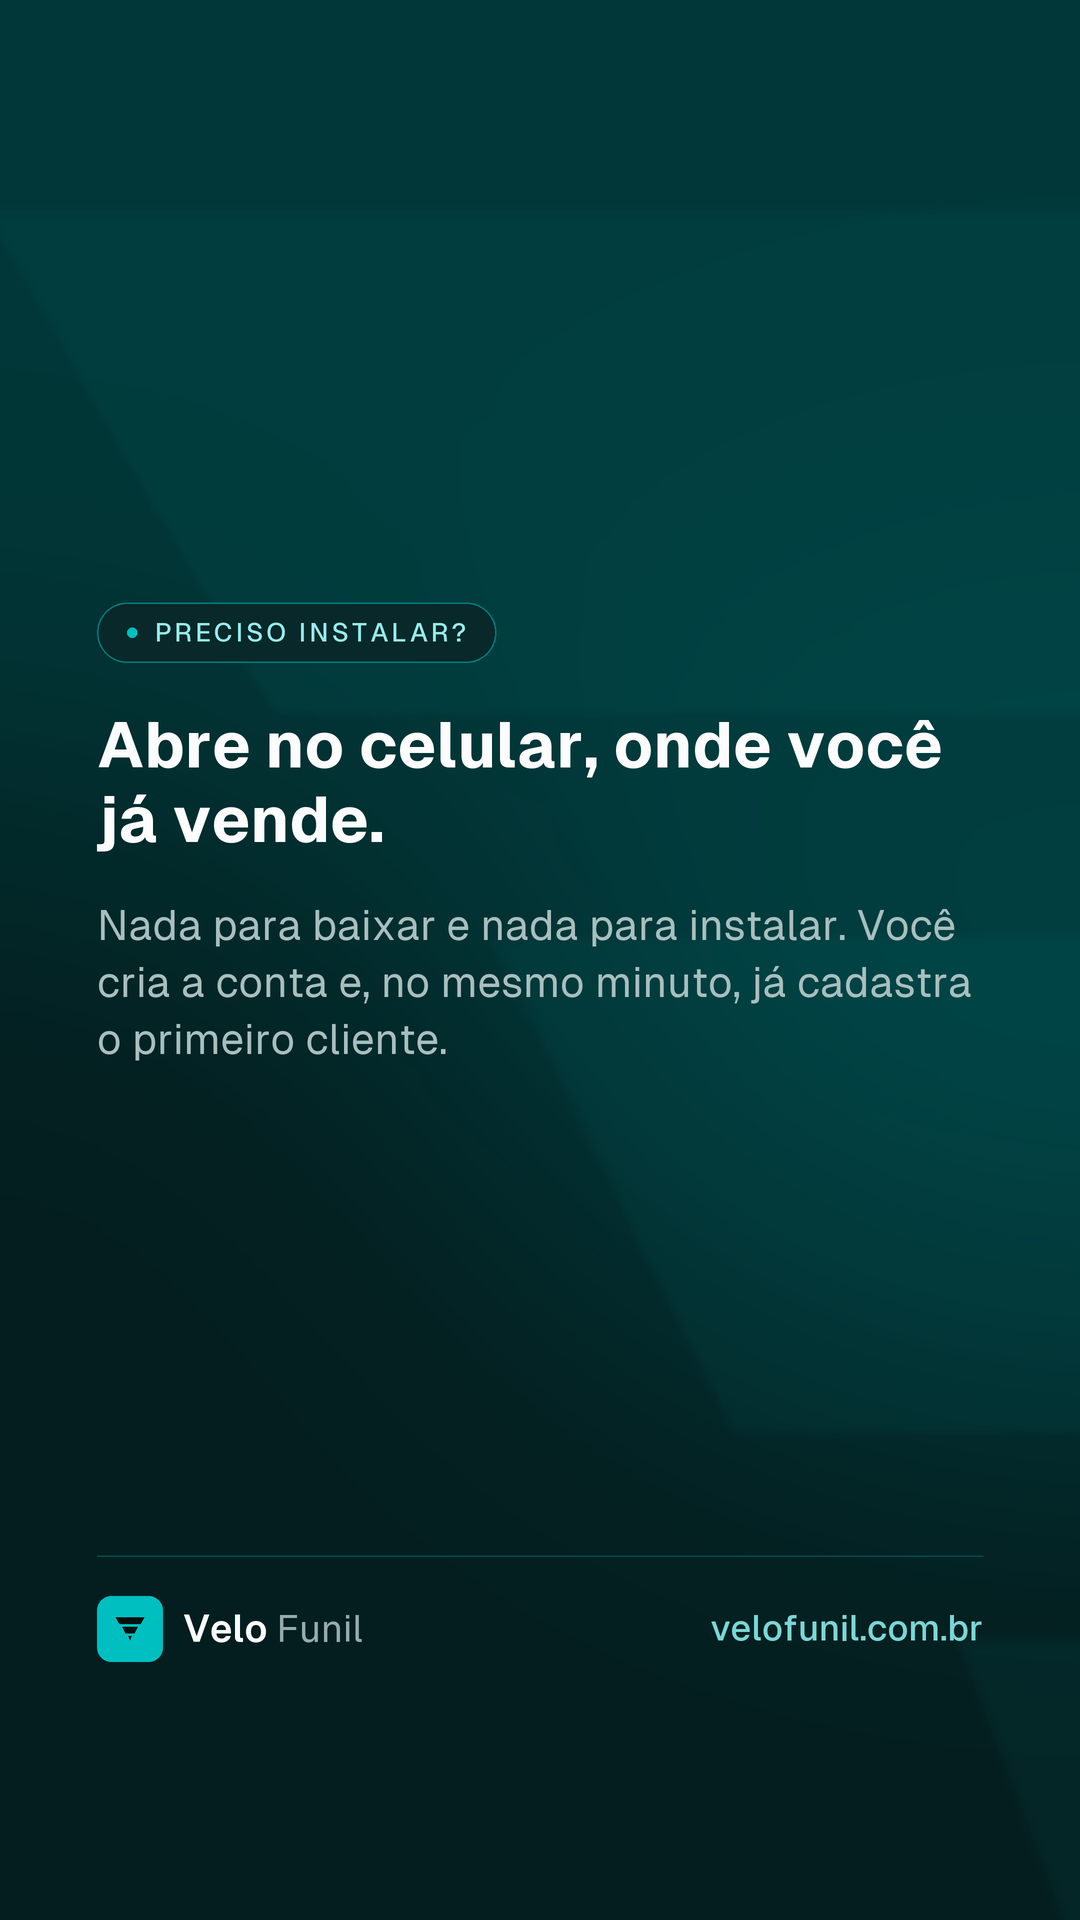
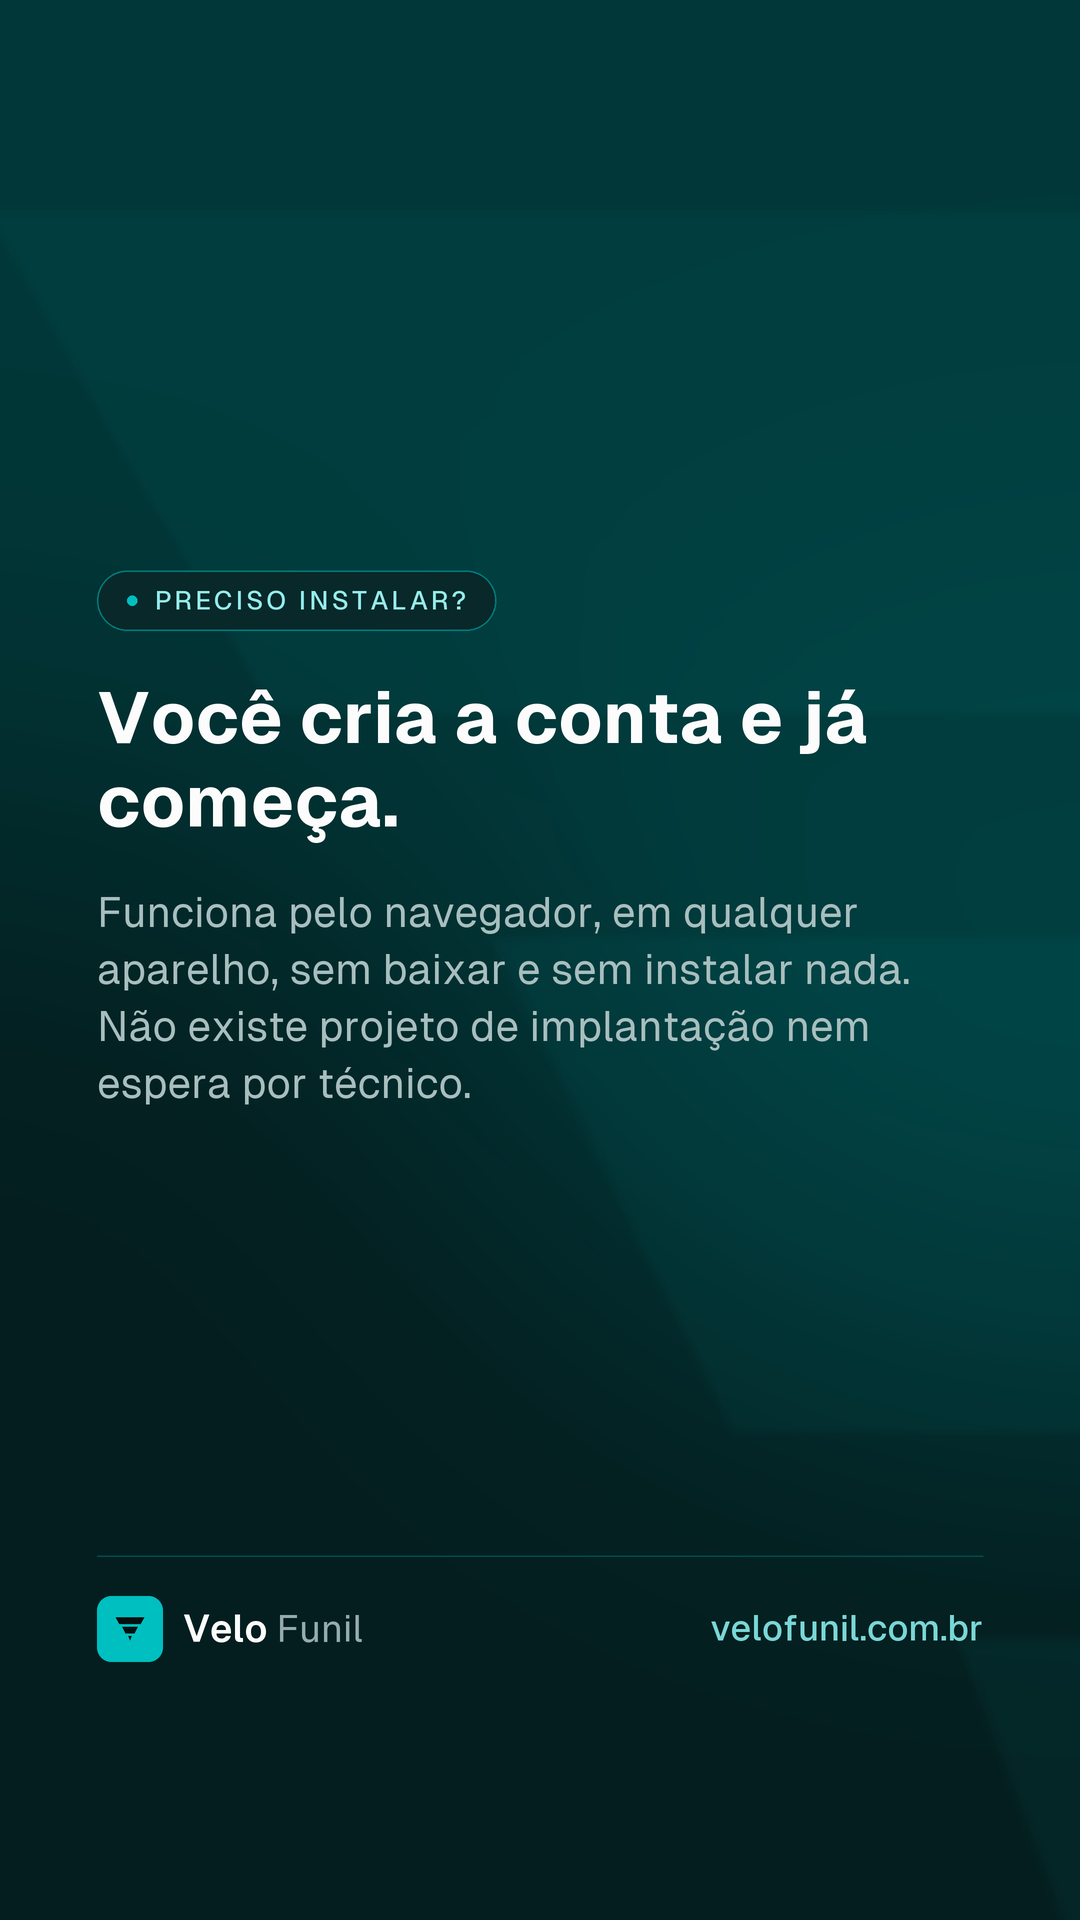
fix(marketing): a peça mandava a pessoa para o lado fraco do produto
A tela 2 do Perguntas dizia "Abre no celular, onde você já vende". A frase era
verdadeira sobre o canal de venda da PME brasileira, e por isso passou: 82%
vendem pelo WhatsApp, ou seja, do telefone.

Mas ela empurrava para a experiência PIOR. Arrastar cartão entre etapas do
funil, ler tabela de contatos e comparar gráfico rendem mais no computador. Uma
peça de venda que direciona para o lado fraco do produto trabalha contra ele, e
a primeira impressão de quem entrar pelo caminho errado é de um produto mais
apertado do que ele é.

Agora não diz onde é melhor. O ganho passa a ser TEMPO ATÉ COMEÇAR, que
independe de aparelho:

  Abre no celular, onde você já vende  ->  Você cria a conta e já começa.

O corpo também deixou de responder só "não precisa instalar". A objeção real da
PME não é o instalador: é o medo de projeto de implantação, com semanas de
espera e técnico marcando visita. É isso que a frase nega agora, e é o que
diferencia de verdade dos CRMs que este público conhece de nome.

"Em qualquer aparelho" ficou porque é neutro e verdadeiro. Varridas as demais
telas: nenhuma outra direciona para um aparelho como sendo o melhor.

Conferido abrindo o PNG. Gate com build:check, localhost de pé, .zip em 200.

Changed region(s): [[0.0917, 0.2812, 0.8861, 0.5938]]

diff --git a/scripts/marketing/gerar-stories.py b/scripts/marketing/gerar-stories.py
@@ -1039,12 +1039,22 @@ def destaque_perguntas():
         "perguntas-1-gratis", destaque="Sem cartão para começar.", tam=74,
     )
 
+    # Sem dizer em qual aparelho é melhor, de propósito. A versão anterior
+    # dizia "abre no celular, onde você já vende": verdade sobre o canal de
+    # venda, mas empurrava para a experiência PIOR — arrastar cartão no funil,
+    # ler tabela e comparar gráfico rendem mais no computador. Uma peça de
+    # venda que direciona para o lado fraco do produto trabalha contra ele.
+    #
+    # O ganho aqui é TEMPO ATÉ COMEÇAR, que independe de aparelho, e a objeção
+    # real da PME não é "instalar": é o medo de projeto de implantação, com
+    # semanas de espera e técnico marcando visita.
     tela_declaracao(
         "Preciso instalar?",
-        "Abre no celular, onde você já vende.",
-        "Nada para baixar e nada para instalar. Você cria a conta e, no mesmo "
-        "minuto, já cadastra o primeiro cliente.",
-        "perguntas-2-instalar", tam=64,
+        "Você cria a conta e já começa.",
+        "Funciona pelo navegador, em qualquer aparelho, sem baixar e sem "
+        "instalar nada. Não existe projeto de implantação nem espera por "
+        "técnico.",
+        "perguntas-2-instalar", tam=72,
     )
 
     tela_lista(
